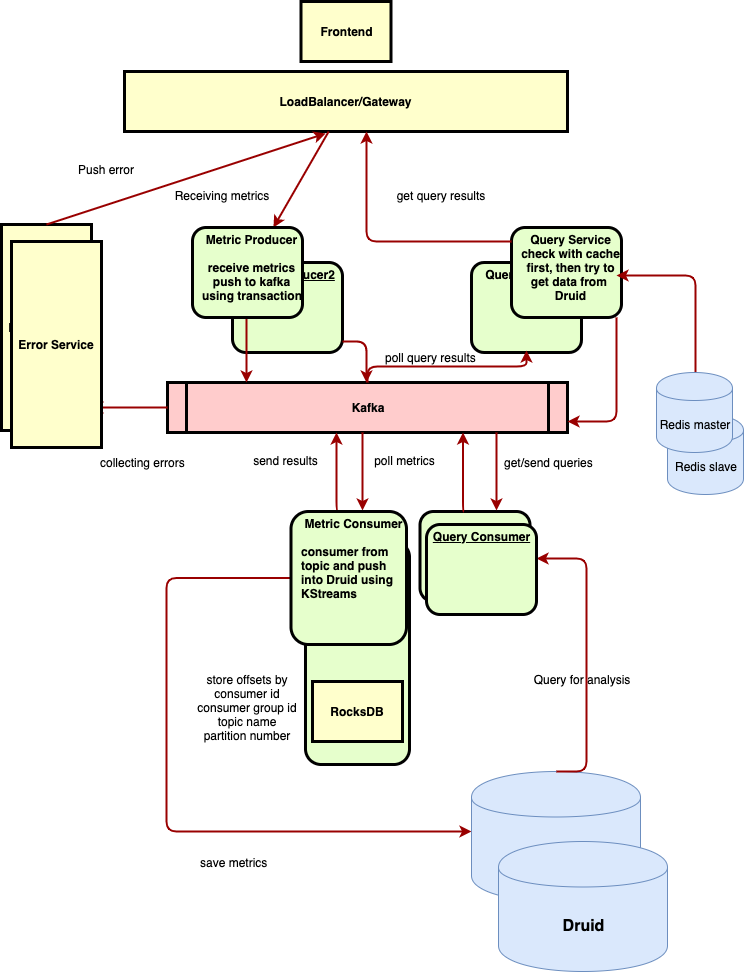
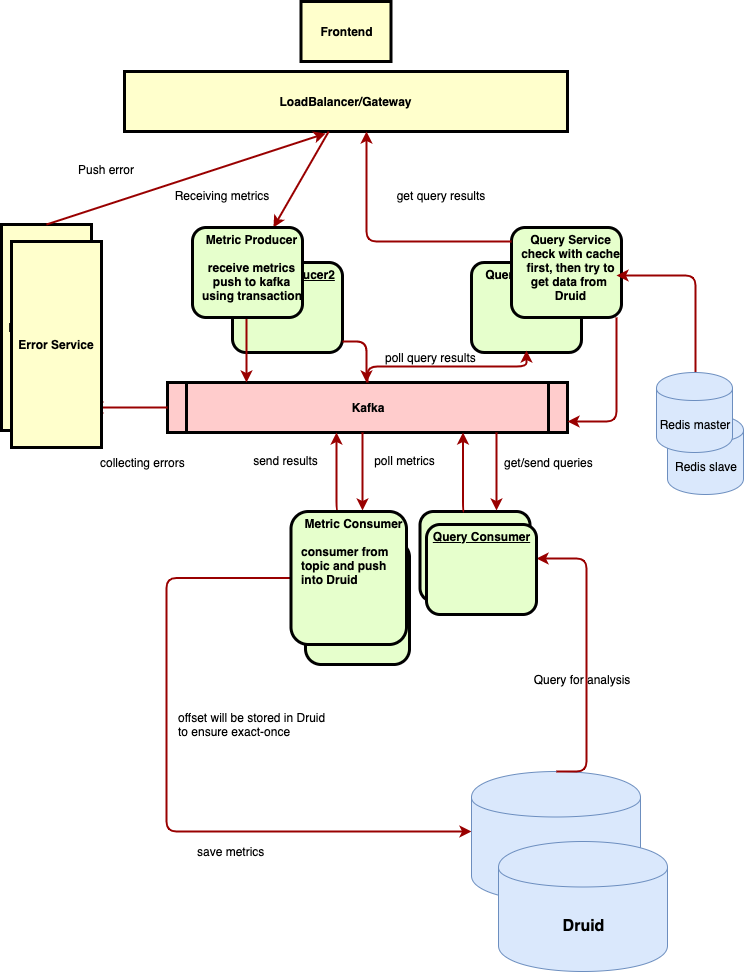
fix minor issues

Changed region(s): [[0.2473, 0.679, 0.5565, 0.8025], [0.4019, 0.5864, 0.5255, 0.6173], [0.2473, 0.8642, 0.371, 0.8951]]

diff --git a/README.md b/README.md
@@ -4,7 +4,7 @@
 
 
 ## components
-*Load Balancer and Gateway
+* Load Balancer and Gateway
 >* dispatch the requests and load balancing
 
 * Metric Producer:
@@ -19,8 +19,8 @@
 > * smooth the request to avoid spike
 
 * Metric Consumer:
-> * received the metrics by listening to topic and sink them to Druid using KStreams
-> * stateless, read offsets will be stored in RocksDB
+> * received the metrics by listening to topic and sink them to Druid, the offsets will be stored in Druid to ensure exact-once delivery
+> * stateless
 > * error message will be sent to error topic in Kafka
 
 * Query Consumer:
@@ -40,7 +40,7 @@
 
 ##Problems and Answers
 Q: handle large write volume: Billions write events per day.
-A: All components could be horizontal scaling, so it is easy to cope with the request
+A: All components are stateless so they could be horizontal scaling, so it is easy to cope with the request
 Kafka and Redis could hold 10W+ QPS, so there is no bottleneck
 
 Q: handle large read/query volume: Millions merchants want to get insight about their business. Read/Query patterns are time-series related metrics.
